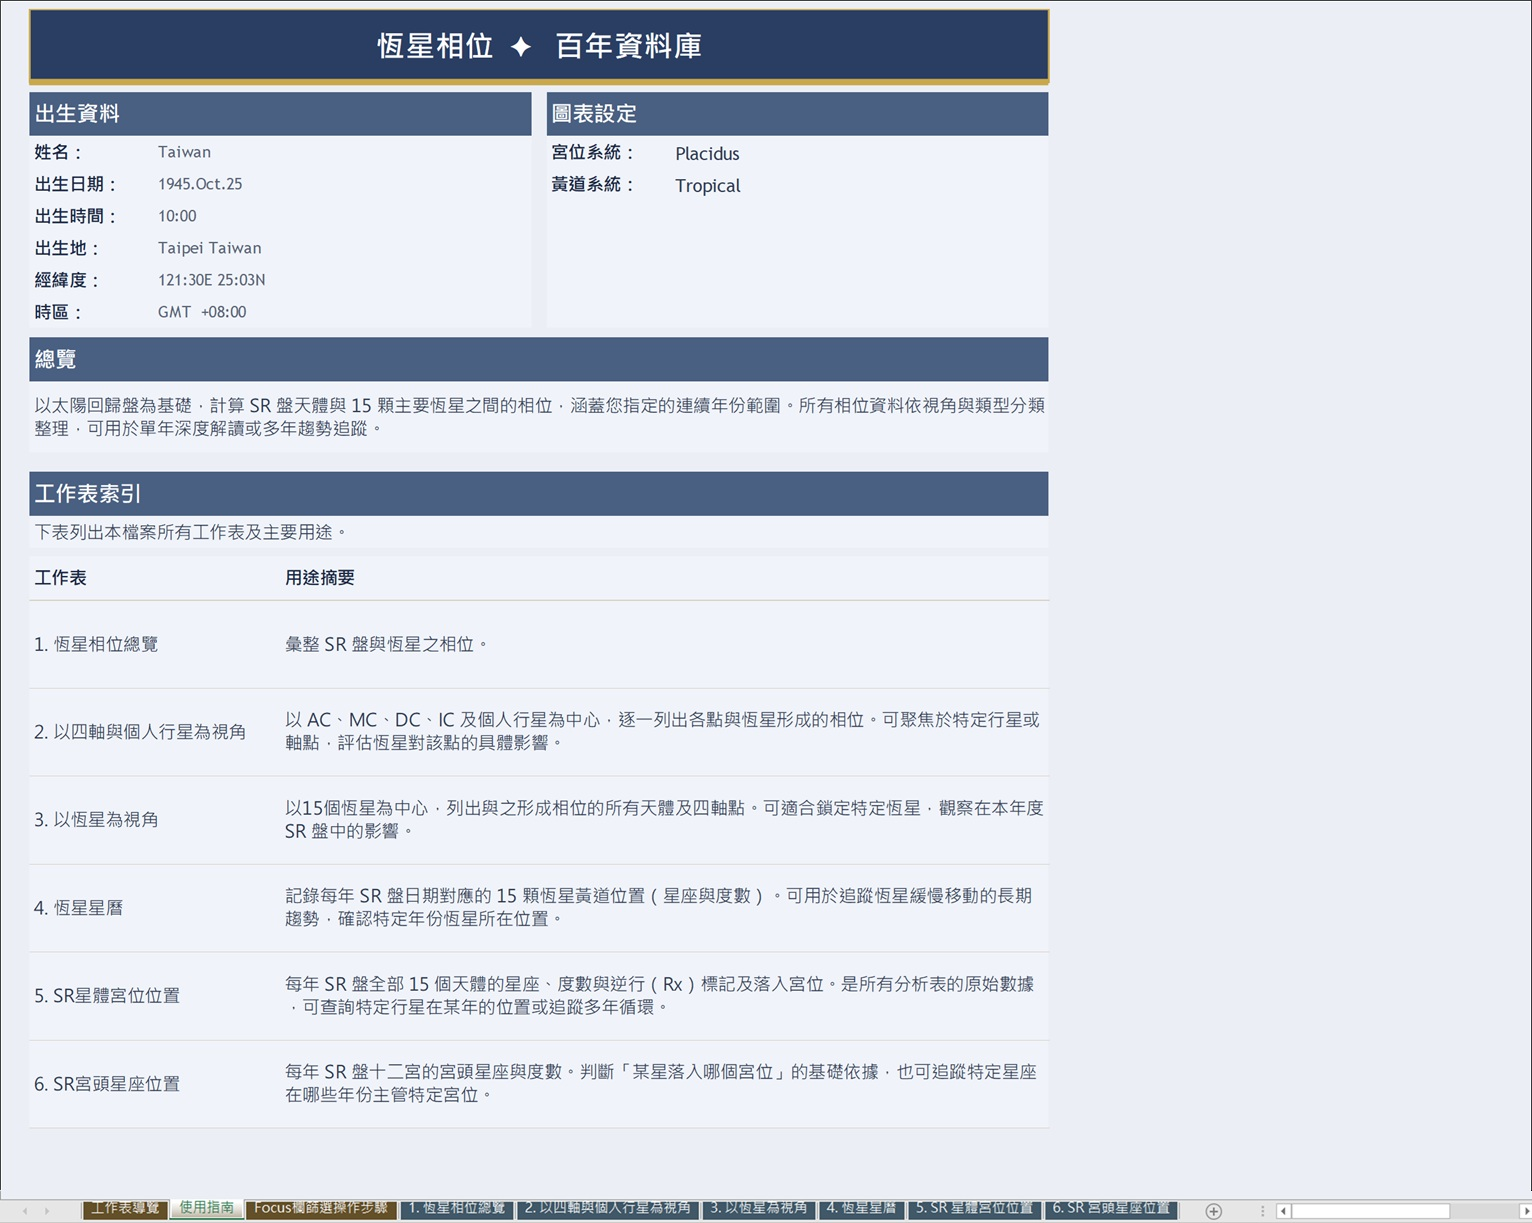
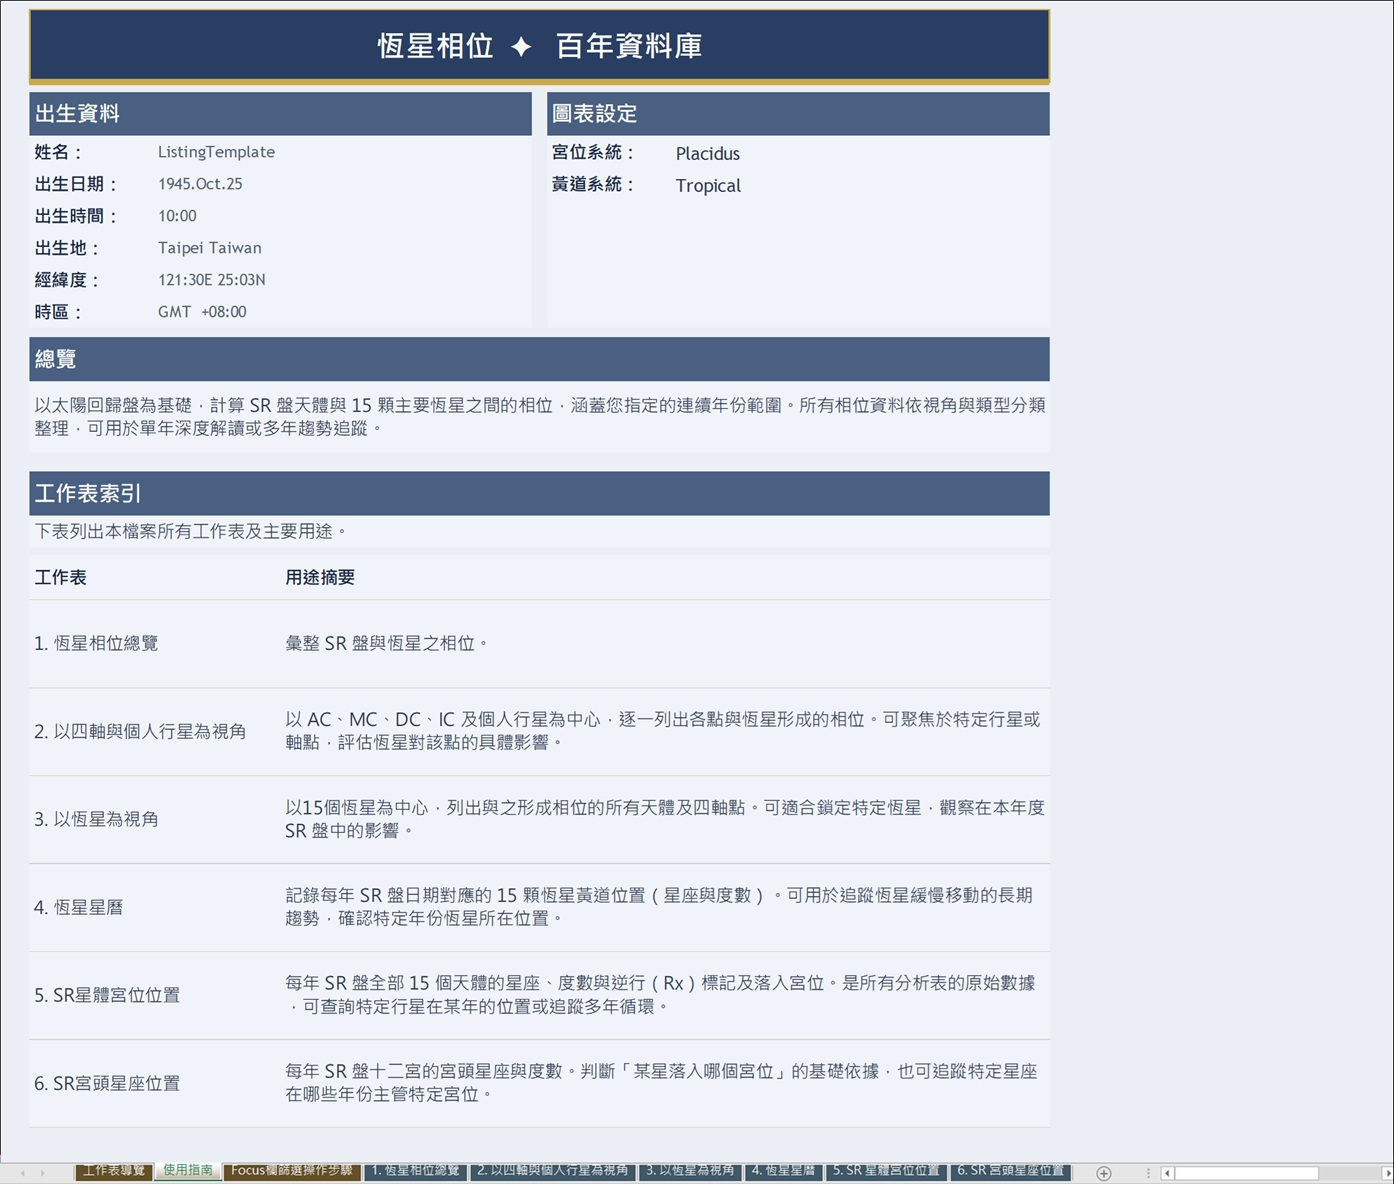
Add files via upload

diff --git a/index.html b/index.html
@@ -11,12 +11,13 @@
     body { background: #EBEEF5; color: #1a2340; font-family: 'EB Garamond', Georgia, serif; min-height: 100vh; }
 
     /* ── Hero ── */
-    .hero { background: #0b1020; padding: 64px 32px 52px; text-align: center; border-bottom: 1px solid #C9A84C44; position: relative; overflow: hidden; }
+    .hero { background: #0b1020; padding: 20px 32px 16px; text-align: center; border-bottom: 1px solid #C9A84C44; position: relative; overflow: hidden; }
     #starCanvas { position: absolute; inset: 0; width: 100%; height: 100%; pointer-events: none; }
     .hero-inner { position: relative; z-index: 1; }
     .shop-label { font-family: 'Cinzel', serif; font-size: 10px; letter-spacing: 3.5px; color: #C9A84C; text-transform: uppercase; margin-bottom: 16px; }
     .hero-title { font-family: 'Noto Sans TC', sans-serif; font-size: 36px; font-weight: 500; color: #f0e8d8; margin-bottom: 10px; }
     .hero-sub { font-family: 'Noto Sans TC', sans-serif; font-size: 16px; font-weight: 400; color: #C9A84Ccc; margin-bottom: 8px; }
+    .hero-desc { font-family: 'Noto Sans TC', sans-serif; font-size: 15px; font-weight: 400; color: #c8cfe8; line-height: 2; margin-bottom: 20px; }
     .hero-en { font-family: 'Cinzel', serif; font-size: 10px; letter-spacing: 3.5px; color: #C9A84C; text-transform: uppercase; margin-bottom: 32px; }
     .btn { display: inline-block; padding: 11px 32px; background: transparent; border: 1px solid #C9A84C; color: #C9A84C; font-family: 'Cinzel', serif; font-size: 11px; letter-spacing: 2px; cursor: pointer; text-decoration: none; border-radius: 2px; transition: background 0.2s; }
     .btn:hover { background: #C9A84C18; }
@@ -138,7 +139,8 @@
   <div class="hero-inner">
     <p class="shop-label">VBAstroCharts · Your Chart, Your Century</p>
     <h1 class="hero-title">個人占星活頁簿</h1>
-    <p class="hero-sub">百年星曆・量身訂製</p>
+    <p class="hero-sub">百年星曆・行運週期・量身訂製</p>
+    <p class="hero-desc">長期行運、相位週期與人生時間軸整理<br>以 Excel 建立可篩選、可保存的個人占星工作簿</p>
     <p class="hero-en">Personalized Astrology Workbooks · 100-Year Data</p>
   </div>
 </header>
@@ -401,11 +403,12 @@ const PRODUCTS = {
     en: 'Solar Return · Triple-View Aspect Chart',
     imgs: ['SRChart-1.jpg','SRChart-2.jpg','SRChart-3.jpg','SRChart-4.jpg','SRChart-5.jpg','SRChart-6.jpg'],
     captions: [
-      '工作表導覽 — 各年度結構總覽',
-      '2026 太陽回歸概覽 — SR 關鍵配置、年度小限與食相標記',
-      'View I — Solar Return 星盤：SR 內相位與本命外輪',
-      'Complete SR-Natal Aspect Matrix — 相位矩陣使用說明',
-      'Key Exact Aspects (orb < 1°) — 精準相位總表與完整相位矩陣'
+      '表導覽 — 各年度結構總覽',
+      '使用指南',
+      '太陽回歸概覽 — SR 關鍵配置、年度小限與食相標記（深色版）',
+      'Key Exact Aspects (orb < 1°) — 精準相位總表與完整相位矩陣（深色版）',
+      '太陽回歸概覽 — SR 關鍵配置、年度小限與食相標記（淺色版）',
+      'Key Exact Aspects (orb < 1°) — 精準相位總表與完整相位矩陣（淺色版）'
     ]
   },
   'SRDB': {